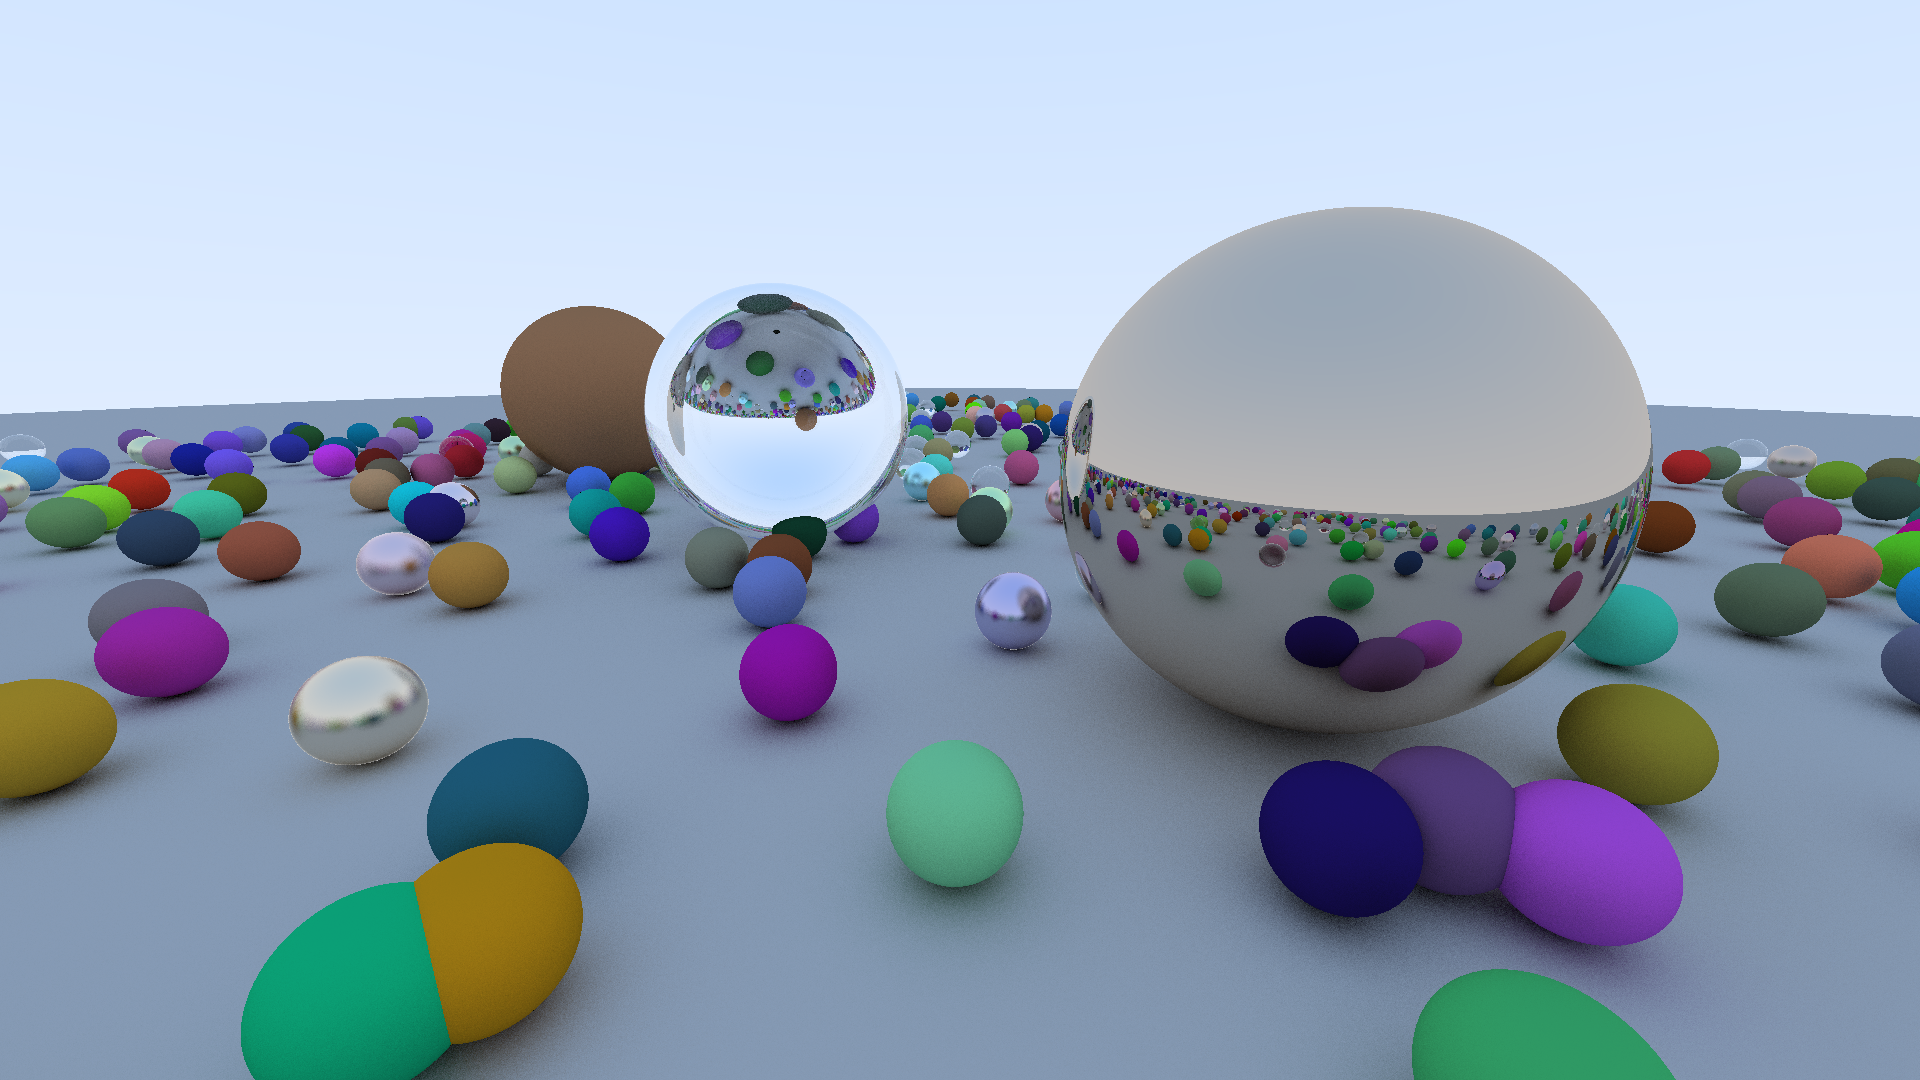
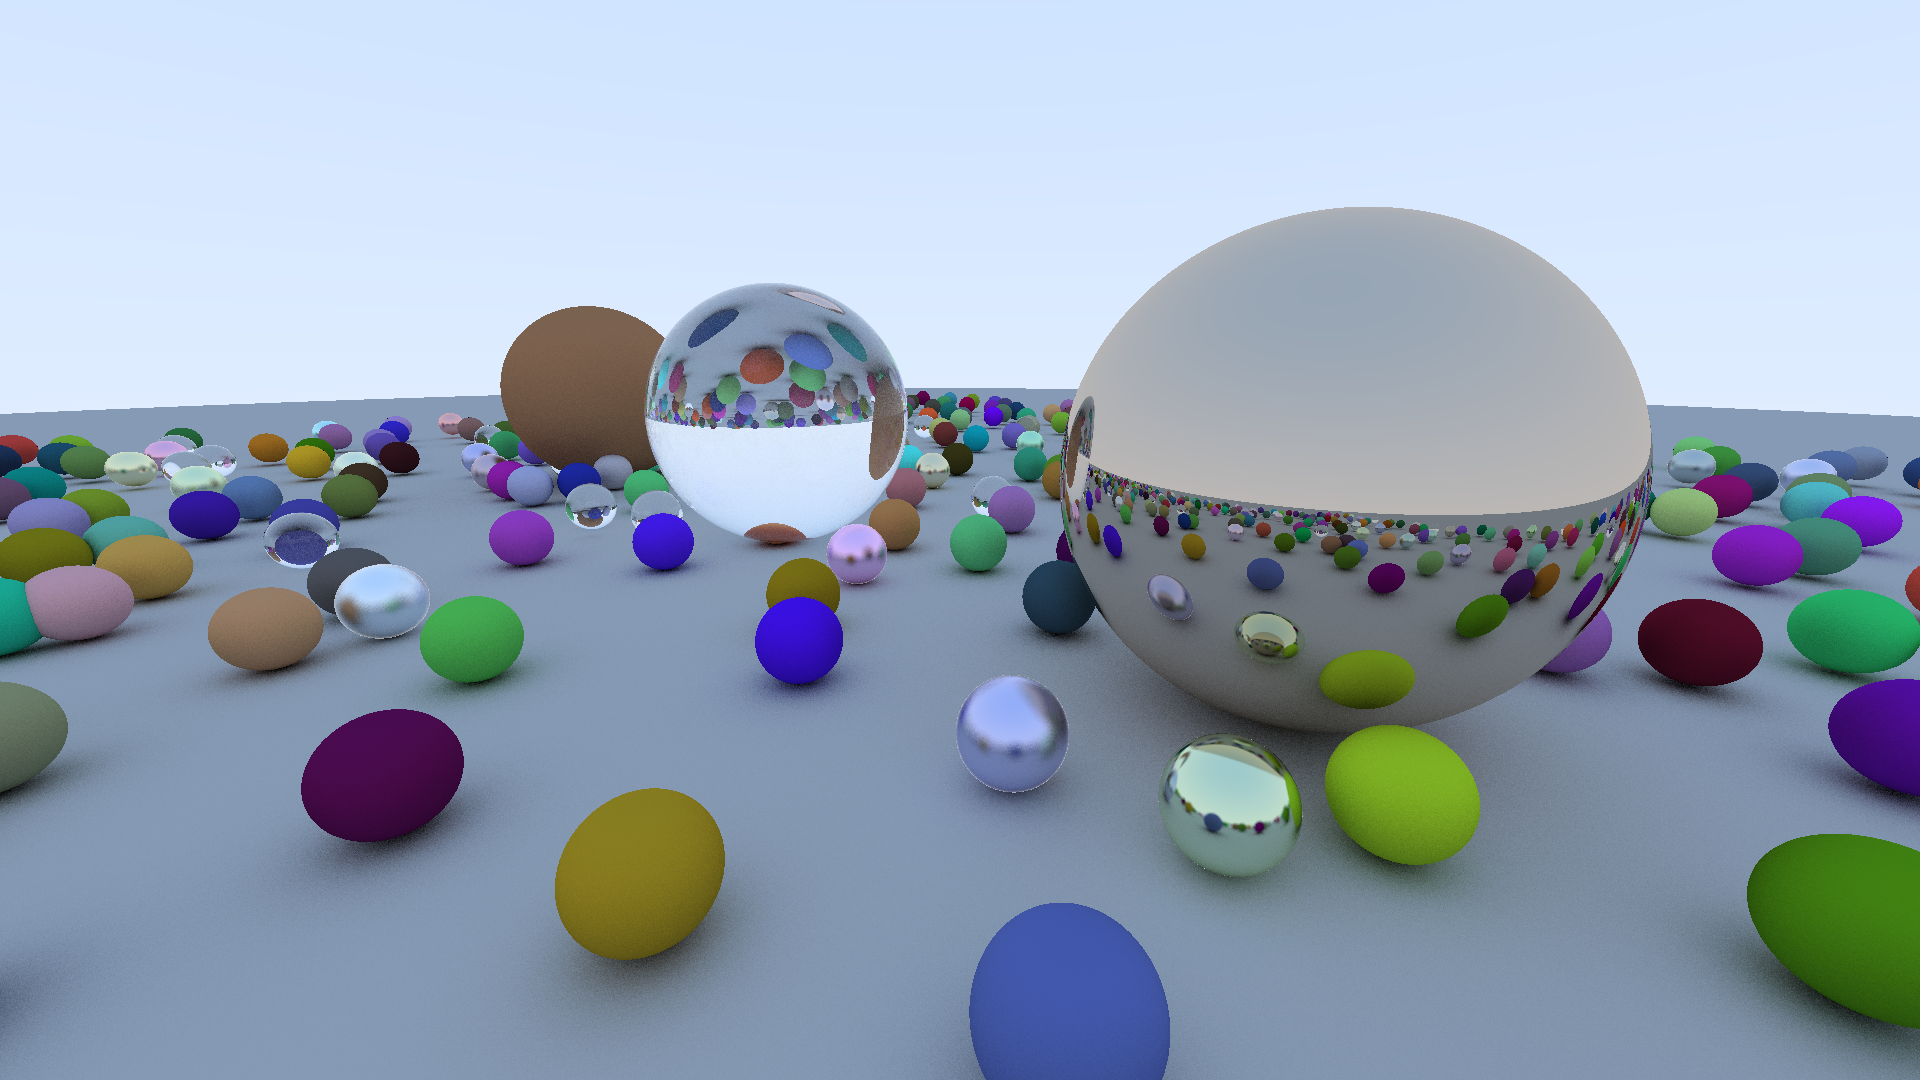
Fixed issue with glass refraction.

diff --git a/src/main.rs b/src/main.rs
@@ -76,7 +76,7 @@ fn random_scene() -> HittableList
                 {
                     // glass
                     world.add(Sphere::new(center, 0.2, Material::Glass(Glass::new(1.5))));
-                    world.add(Sphere::new(center, 0.15, Material::Glass(Glass::new(1.5))));
+                    //world.add(Sphere::new(center, 0.15, Material::Glass(Glass::new(1.5))));
                 }
             }
         }
@@ -87,7 +87,7 @@ fn random_scene() -> HittableList
 
     let material2 = Material::Lambertian(Lambertian::new(Vec3::new(0.4, 0.2, 0.1)));
     world.add(Sphere::new(Vec3::new(-4.0, 1.0, 0.0), 1.0, material2));
-    world.add(Sphere::new(Vec3::new(-4.0, 1.0, 0.0), 0.8, material2));
+    //world.add(Sphere::new(Vec3::new(-4.0, 1.0, 0.0), 0.95, material2));
 
     let material3 = Material::Metal(Metal::new(Vec3::new(0.7, 0.6, 0.5), 0.0));
     world.add(Sphere::new(Vec3::new(4.0, 1.0, 0.0), 1.0, material3));

diff --git a/src/raytracing/material/submaterials/glass.rs b/src/raytracing/material/submaterials/glass.rs
@@ -37,8 +37,8 @@ impl Scatterable for Glass
             refraction_ratio = self.refract_index;
         }
 
-        let unit_direction = Vec3::inverse(&ray.direction().normalize());
-        let cos_theta = fmin(Vec3::dot(&unit_direction, &hit_record.normal) as f64, 1.0) as f32;
+        let unit_direction = ray.direction().normalize();
+        let cos_theta = fmin(Vec3::dot(&Vec3::inverse(&unit_direction), &hit_record.normal) as f64, 1.0) as f32;
         let sin_theta = (1.0 - cos_theta * cos_theta).sqrt();
 
         let cannot_refract = refraction_ratio * sin_theta > 1.0;
